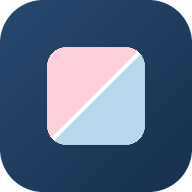
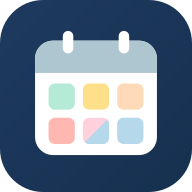
Nuevo icono de la app (calendario pastel) + manifest PWA instalable

diff --git a/public/index.html b/public/index.html
@@ -7,6 +7,7 @@
 <link rel="icon" type="image/png" sizes="32x32" href="assets/icon-32.png">
 <link rel="icon" type="image/png" sizes="192x192" href="assets/icon-192.png">
 <link rel="apple-touch-icon" href="assets/icon-180.png">
+<link rel="manifest" href="manifest.json">
 <meta name="theme-color" content="#16304f">
 <link rel="preconnect" href="https://fonts.googleapis.com">
 <link rel="preconnect" href="https://fonts.gstatic.com" crossorigin>
